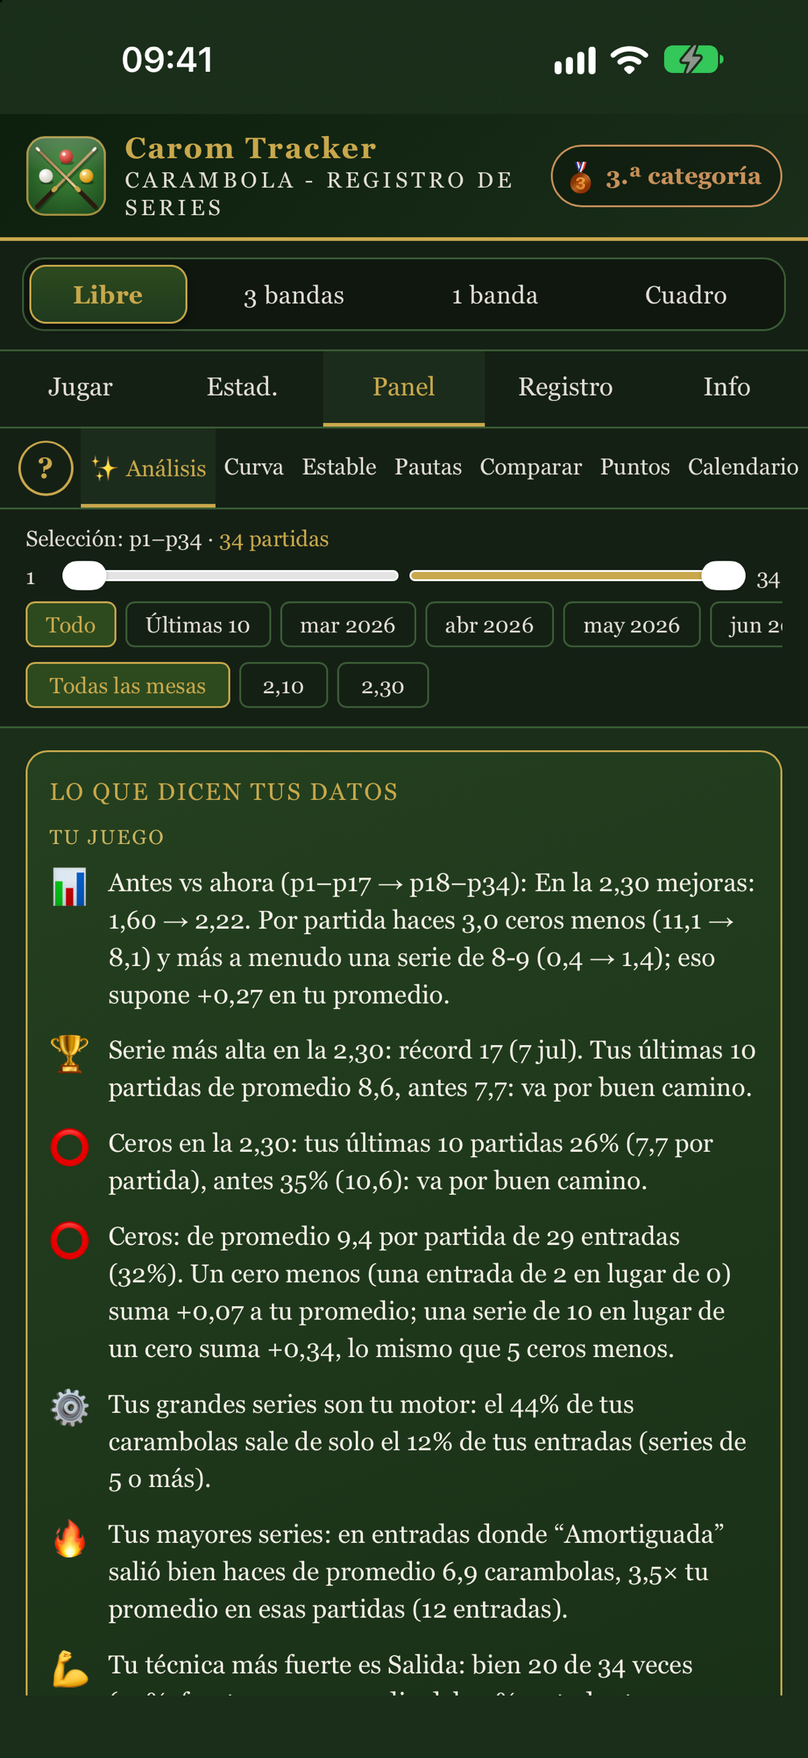
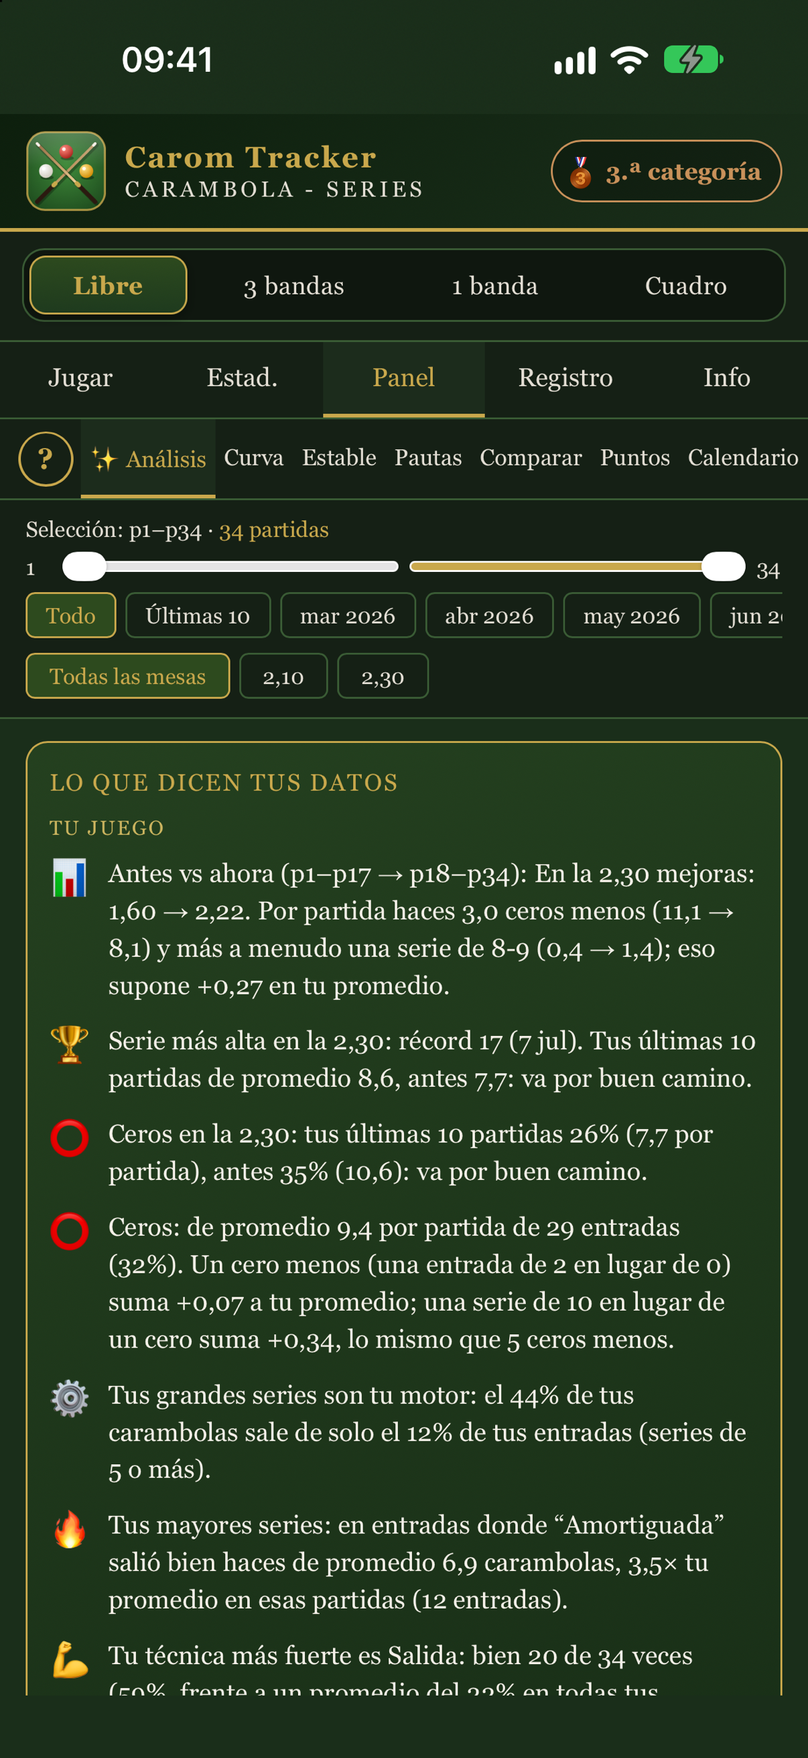
Schermafbeeldingen Japans, Vietnamees, Portugees; decimaalnotatie drempels per taal, Japanse dubbele punt, kortere ondertitel Spaans/Portugees

Changed region(s): [[0.0, 0.0618, 1.0, 0.9577]]

diff --git a/gebouwd/dashboard.js b/gebouwd/dashboard.js
@@ -620,7 +620,7 @@ function Dashboard({ partijen, niveau, tijdsvensterMaanden, discipline }) {
       onChange: (e) => setTrimH(+e.target.value),
       style: { width: "100%", accentColor: GRNT }
     }
-  ))), /* @__PURE__ */ React.createElement("div", { style: { textAlign: "center", background: "var(--c-1a3019)", borderRadius: 8, padding: "8px" } }, /* @__PURE__ */ React.createElement("span", { style: { fontSize: 13, color: WITD } }, t("Gefilterd gemiddelde:"), " "), /* @__PURE__ */ React.createElement("span", { style: { fontSize: 20, fontWeight: "bold", color: parseFloat(gemGem) >= grenzen.laag ? GOUD : WITD } }, gemGem))), sel.length > 0 && /* @__PURE__ */ React.createElement("div", { style: { background: KBG, border: `1px solid ${KBDR}`, borderRadius: 10, padding: "12px" } }, /* @__PURE__ */ React.createElement("div", { style: { display: "flex", justifyContent: "space-between", alignItems: "baseline", marginBottom: 8 } }, /* @__PURE__ */ React.createElement("span", { style: { fontSize: 13, color: GOUD, textTransform: "uppercase", letterSpacing: 1 } }, t("Alle beurten")), /* @__PURE__ */ React.createElement("span", { style: { fontSize: 12, color: WITD } }, t("{p} partijen · {b} beurten", { p: sel.length, b: sel.reduce((a, p) => a + p.n, 0) }))), /* @__PURE__ */ React.createElement(BeurtenTijdlijn, { partijen: sel, nummers: sel.map((p) => p.nr), discipline, niveau }))), tab === "consist" && /* @__PURE__ */ React.createElement("div", { style: { display: "flex", flexDirection: "column", gap: 10 } }, /* @__PURE__ */ React.createElement("div", { style: { background: KBG, border: `1px solid ${KBDR}`, borderRadius: 10, padding: "14px" } }, /* @__PURE__ */ React.createElement("div", { style: { fontSize: 13, color: GOUD, textTransform: "uppercase", letterSpacing: 1, marginBottom: 14 } }, t("% boven drempel")), [[drempD1, b15, "#5a8a50"], [drempD2, b20, GOUD], [drempD3, b25, "#e8a84c"], [drempD4, b30, ROOD]].map(([d, pct, k]) => /* @__PURE__ */ React.createElement("div", { key: d, style: { marginBottom: 14 } }, /* @__PURE__ */ React.createElement("div", { style: { display: "flex", justifyContent: "space-between", marginBottom: 4 } }, /* @__PURE__ */ React.createElement("span", { style: { fontSize: 14, color: WITD } }, t("Boven {g}", { g: gemDrempelTekst(d, stapC) })), /* @__PURE__ */ React.createElement("span", { style: { fontSize: 18, fontWeight: "bold", color: k } }, pct, "%")), /* @__PURE__ */ React.createElement(DashBalk, { pct, kleur: k }), /* @__PURE__ */ React.createElement("div", { style: { fontSize: 12, color: WITD, marginTop: 2 } }, t("{a} van {b} partijen", { a: filt.filter((p) => p.gem >= d).length, b: filt.length }))))), /* @__PURE__ */ React.createElement("div", { style: { display: "grid", gridTemplateColumns: "1fr 1fr", gap: 8 } }, /* @__PURE__ */ React.createElement("div", { style: { background: KBG, border: `1px solid ${KBDR}`, borderRadius: 10, padding: "12px" } }, /* @__PURE__ */ React.createElement("div", { style: { fontSize: 13, color: GRNT, textTransform: "uppercase", letterSpacing: 1, marginBottom: 8 } }, t("Beste 5")), [...filt].sort((a, b) => b.gem - a.gem).slice(0, 5).map((p) => /* @__PURE__ */ React.createElement("div", { key: p.id, style: { display: "flex", justifyContent: "space-between", padding: "3px 0", borderBottom: `1px solid ${KBDR}` } }, /* @__PURE__ */ React.createElement("span", { style: { fontSize: 13, color: WITD } }, "p", p.nr, " ", fmtDatum(p.datum)), /* @__PURE__ */ React.createElement("span", { style: { fontSize: 14, fontWeight: "bold", color: GRNT } }, p.gem)))), /* @__PURE__ */ React.createElement("div", { style: { background: KBG, border: `1px solid ${KBDR}`, borderRadius: 10, padding: "12px" } }, /* @__PURE__ */ React.createElement("div", { style: { fontSize: 13, color: ROOD, textTransform: "uppercase", letterSpacing: 1, marginBottom: 8 } }, t("Slechtste 5")), [...filt].sort((a, b) => a.gem - b.gem).slice(0, 5).map((p) => /* @__PURE__ */ React.createElement("div", { key: p.id, style: { display: "flex", justifyContent: "space-between", padding: "3px 0", borderBottom: `1px solid ${KBDR}` } }, /* @__PURE__ */ React.createElement("span", { style: { fontSize: 13, color: WITD } }, "p", p.nr, " ", fmtDatum(p.datum)), /* @__PURE__ */ React.createElement("span", { style: { fontSize: 14, fontWeight: "bold", color: ROOD } }, p.gem)))))), tab === "patronen" && /* @__PURE__ */ React.createElement("div", { style: { display: "flex", flexDirection: "column", gap: 10 } }, /* @__PURE__ */ React.createElement("div", { style: { background: KBG, border: `1px solid ${KBDR}`, borderRadius: 10, padding: "12px" } }, /* @__PURE__ */ React.createElement("div", { style: { fontSize: 13, color: GOUD, textTransform: "uppercase", letterSpacing: 1, marginBottom: 10 } }, t("Meest genoteerde redenen")), gemistCounts.length === 0 && goedCounts.length === 0 ? /* @__PURE__ */ React.createElement("div", { style: { fontSize: 14, color: WITD } }, t("Nog geen opmerkingen genoteerd in deze selectie.")) : /* @__PURE__ */ React.createElement("div", { style: { display: "grid", gridTemplateColumns: "1fr 1fr", gap: 12 } }, /* @__PURE__ */ React.createElement("div", null, /* @__PURE__ */ React.createElement("div", { style: { fontSize: 13, color: ROOD, marginBottom: 6 } }, t("Gemist door")), gemistCounts.length === 0 ? /* @__PURE__ */ React.createElement("div", { style: { fontSize: 13, color: WITD } }, "—") : gemistCounts.slice(0, 8).map(([label, n]) => /* @__PURE__ */ React.createElement("div", { key: label, style: { marginBottom: 6 } }, /* @__PURE__ */ React.createElement("div", { style: { display: "flex", justifyContent: "space-between", fontSize: 13, color: WITD, marginBottom: 2 } }, /* @__PURE__ */ React.createElement("span", null, t(label)), /* @__PURE__ */ React.createElement("span", null, n, "x")), /* @__PURE__ */ React.createElement(DashBalk, { pct: Math.round(n / gemistCounts[0][1] * 100), kleur: ROOD, hoogte: 5 })))), /* @__PURE__ */ React.createElement("div", null, /* @__PURE__ */ React.createElement("div", { style: { fontSize: 13, color: GRNT, marginBottom: 6 } }, t("Ging goed door")), goedCounts.length === 0 ? /* @__PURE__ */ React.createElement("div", { style: { fontSize: 13, color: WITD } }, "—") : goedCounts.slice(0, 8).map(([label, n]) => /* @__PURE__ */ React.createElement("div", { key: label, style: { marginBottom: 6 } }, /* @__PURE__ */ React.createElement("div", { style: { display: "flex", justifyContent: "space-between", fontSize: 13, color: WITD, marginBottom: 2 } }, /* @__PURE__ */ React.createElement("span", null, t(label)), /* @__PURE__ */ React.createElement("span", null, n, "x")), /* @__PURE__ */ React.createElement(DashBalk, { pct: Math.round(n / goedCounts[0][1] * 100), kleur: GRNT, hoogte: 5 })))))), /* @__PURE__ */ React.createElement("div", { style: { background: KBG, border: `1px solid ${KBDR}`, borderRadius: 10, padding: "12px" } }, /* @__PURE__ */ React.createElement("div", { style: { fontSize: 13, color: GOUD, textTransform: "uppercase", letterSpacing: 1, marginBottom: 10 } }, t("Verdeling caramboles per beurt")), histData.totBeurt === 0 ? /* @__PURE__ */ React.createElement("div", { style: { fontSize: 14, color: WITD } }, t("Geen beurten in selectie.")) : /* @__PURE__ */ React.createElement(React.Fragment, null, histData.counts.map(({ label, n }, idx) => {
+  ))), /* @__PURE__ */ React.createElement("div", { style: { textAlign: "center", background: "var(--c-1a3019)", borderRadius: 8, padding: "8px" } }, /* @__PURE__ */ React.createElement("span", { style: { fontSize: 13, color: WITD } }, t("Gefilterd gemiddelde:"), " "), /* @__PURE__ */ React.createElement("span", { style: { fontSize: 20, fontWeight: "bold", color: parseFloat(gemGem) >= grenzen.laag ? GOUD : WITD } }, gemGem))), sel.length > 0 && /* @__PURE__ */ React.createElement("div", { style: { background: KBG, border: `1px solid ${KBDR}`, borderRadius: 10, padding: "12px" } }, /* @__PURE__ */ React.createElement("div", { style: { display: "flex", justifyContent: "space-between", alignItems: "baseline", marginBottom: 8 } }, /* @__PURE__ */ React.createElement("span", { style: { fontSize: 13, color: GOUD, textTransform: "uppercase", letterSpacing: 1 } }, t("Alle beurten")), /* @__PURE__ */ React.createElement("span", { style: { fontSize: 12, color: WITD } }, t("{p} partijen · {b} beurten", { p: sel.length, b: sel.reduce((a, p) => a + p.n, 0) }))), /* @__PURE__ */ React.createElement(BeurtenTijdlijn, { partijen: sel, nummers: sel.map((p) => p.nr), discipline, niveau }))), tab === "consist" && /* @__PURE__ */ React.createElement("div", { style: { display: "flex", flexDirection: "column", gap: 10 } }, /* @__PURE__ */ React.createElement("div", { style: { background: KBG, border: `1px solid ${KBDR}`, borderRadius: 10, padding: "14px" } }, /* @__PURE__ */ React.createElement("div", { style: { fontSize: 13, color: GOUD, textTransform: "uppercase", letterSpacing: 1, marginBottom: 14 } }, t("% boven drempel")), [[drempD1, b15, "#5a8a50"], [drempD2, b20, GOUD], [drempD3, b25, "#e8a84c"], [drempD4, b30, ROOD]].map(([d, pct, k]) => /* @__PURE__ */ React.createElement("div", { key: d, style: { marginBottom: 14 } }, /* @__PURE__ */ React.createElement("div", { style: { display: "flex", justifyContent: "space-between", marginBottom: 4 } }, /* @__PURE__ */ React.createElement("span", { style: { fontSize: 14, color: WITD } }, t("Boven {g}", { g: kommaTekst(gemDrempelTekst(d, stapC)) })), /* @__PURE__ */ React.createElement("span", { style: { fontSize: 18, fontWeight: "bold", color: k } }, pct, "%")), /* @__PURE__ */ React.createElement(DashBalk, { pct, kleur: k }), /* @__PURE__ */ React.createElement("div", { style: { fontSize: 12, color: WITD, marginTop: 2 } }, t("{a} van {b} partijen", { a: filt.filter((p) => p.gem >= d).length, b: filt.length }))))), /* @__PURE__ */ React.createElement("div", { style: { display: "grid", gridTemplateColumns: "1fr 1fr", gap: 8 } }, /* @__PURE__ */ React.createElement("div", { style: { background: KBG, border: `1px solid ${KBDR}`, borderRadius: 10, padding: "12px" } }, /* @__PURE__ */ React.createElement("div", { style: { fontSize: 13, color: GRNT, textTransform: "uppercase", letterSpacing: 1, marginBottom: 8 } }, t("Beste 5")), [...filt].sort((a, b) => b.gem - a.gem).slice(0, 5).map((p) => /* @__PURE__ */ React.createElement("div", { key: p.id, style: { display: "flex", justifyContent: "space-between", padding: "3px 0", borderBottom: `1px solid ${KBDR}` } }, /* @__PURE__ */ React.createElement("span", { style: { fontSize: 13, color: WITD } }, "p", p.nr, " ", fmtDatum(p.datum)), /* @__PURE__ */ React.createElement("span", { style: { fontSize: 14, fontWeight: "bold", color: GRNT } }, p.gem)))), /* @__PURE__ */ React.createElement("div", { style: { background: KBG, border: `1px solid ${KBDR}`, borderRadius: 10, padding: "12px" } }, /* @__PURE__ */ React.createElement("div", { style: { fontSize: 13, color: ROOD, textTransform: "uppercase", letterSpacing: 1, marginBottom: 8 } }, t("Slechtste 5")), [...filt].sort((a, b) => a.gem - b.gem).slice(0, 5).map((p) => /* @__PURE__ */ React.createElement("div", { key: p.id, style: { display: "flex", justifyContent: "space-between", padding: "3px 0", borderBottom: `1px solid ${KBDR}` } }, /* @__PURE__ */ React.createElement("span", { style: { fontSize: 13, color: WITD } }, "p", p.nr, " ", fmtDatum(p.datum)), /* @__PURE__ */ React.createElement("span", { style: { fontSize: 14, fontWeight: "bold", color: ROOD } }, p.gem)))))), tab === "patronen" && /* @__PURE__ */ React.createElement("div", { style: { display: "flex", flexDirection: "column", gap: 10 } }, /* @__PURE__ */ React.createElement("div", { style: { background: KBG, border: `1px solid ${KBDR}`, borderRadius: 10, padding: "12px" } }, /* @__PURE__ */ React.createElement("div", { style: { fontSize: 13, color: GOUD, textTransform: "uppercase", letterSpacing: 1, marginBottom: 10 } }, t("Meest genoteerde redenen")), gemistCounts.length === 0 && goedCounts.length === 0 ? /* @__PURE__ */ React.createElement("div", { style: { fontSize: 14, color: WITD } }, t("Nog geen opmerkingen genoteerd in deze selectie.")) : /* @__PURE__ */ React.createElement("div", { style: { display: "grid", gridTemplateColumns: "1fr 1fr", gap: 12 } }, /* @__PURE__ */ React.createElement("div", null, /* @__PURE__ */ React.createElement("div", { style: { fontSize: 13, color: ROOD, marginBottom: 6 } }, t("Gemist door")), gemistCounts.length === 0 ? /* @__PURE__ */ React.createElement("div", { style: { fontSize: 13, color: WITD } }, "—") : gemistCounts.slice(0, 8).map(([label, n]) => /* @__PURE__ */ React.createElement("div", { key: label, style: { marginBottom: 6 } }, /* @__PURE__ */ React.createElement("div", { style: { display: "flex", justifyContent: "space-between", fontSize: 13, color: WITD, marginBottom: 2 } }, /* @__PURE__ */ React.createElement("span", null, t(label)), /* @__PURE__ */ React.createElement("span", null, n, "x")), /* @__PURE__ */ React.createElement(DashBalk, { pct: Math.round(n / gemistCounts[0][1] * 100), kleur: ROOD, hoogte: 5 })))), /* @__PURE__ */ React.createElement("div", null, /* @__PURE__ */ React.createElement("div", { style: { fontSize: 13, color: GRNT, marginBottom: 6 } }, t("Ging goed door")), goedCounts.length === 0 ? /* @__PURE__ */ React.createElement("div", { style: { fontSize: 13, color: WITD } }, "—") : goedCounts.slice(0, 8).map(([label, n]) => /* @__PURE__ */ React.createElement("div", { key: label, style: { marginBottom: 6 } }, /* @__PURE__ */ React.createElement("div", { style: { display: "flex", justifyContent: "space-between", fontSize: 13, color: WITD, marginBottom: 2 } }, /* @__PURE__ */ React.createElement("span", null, t(label)), /* @__PURE__ */ React.createElement("span", null, n, "x")), /* @__PURE__ */ React.createElement(DashBalk, { pct: Math.round(n / goedCounts[0][1] * 100), kleur: GRNT, hoogte: 5 })))))), /* @__PURE__ */ React.createElement("div", { style: { background: KBG, border: `1px solid ${KBDR}`, borderRadius: 10, padding: "12px" } }, /* @__PURE__ */ React.createElement("div", { style: { fontSize: 13, color: GOUD, textTransform: "uppercase", letterSpacing: 1, marginBottom: 10 } }, t("Verdeling caramboles per beurt")), histData.totBeurt === 0 ? /* @__PURE__ */ React.createElement("div", { style: { fontSize: 14, color: WITD } }, t("Geen beurten in selectie.")) : /* @__PURE__ */ React.createElement(React.Fragment, null, histData.counts.map(({ label, n }, idx) => {
     const pct = Math.round(n / histData.totBeurt * 100);
     const laatste = histData.counts.length - 1;
     const kleur = idx === 0 ? "#e08055" : idx === laatste ? "#ff9f40" : idx === laatste - 1 ? GOUDL : idx === laatste - 2 ? GRNT : GOUD;

diff --git a/index.html b/index.html
@@ -38,7 +38,7 @@ if(window.Capacitor&&window.Capacitor.isNativePlatform&&window.Capacitor.isNativ
 <!-- React 18.2.0 staat lokaal in vendor/ (identiek aan cdnjs), zodat de app zonder internet start -->
 <script src="vendor/react.production.min.js"></script>
 <script src="vendor/react-dom.production.min.js"></script>
-<link rel="stylesheet" href="css/app.css?v=2026-10-18.19">
+<link rel="stylesheet" href="css/app.css?v=2026-10-18.22">
 </head>
 <body>
 <div id="root"></div>
@@ -48,29 +48,29 @@ if(window.Capacitor&&window.Capacitor.isNativePlatform&&window.Capacitor.isNativ
   <p>Keep track of your carom billiards games: three-cushion, straight rail, one-cushion, balkline and four-ball, with averages, runs and levels.</p>
   <p>Deze app heeft JavaScript nodig. / This app needs JavaScript.</p>
 </noscript>
-<script src="js/constanten.js?v=2026-10-18.19"></script>
-<script src="js/taal.js?v=2026-10-18.19"></script>
-<script src="js/taal-en.js?v=2026-10-18.19"></script>
-<script src="js/taal-fr.js?v=2026-10-18.19"></script>
-<script src="js/taal-de.js?v=2026-10-18.19"></script>
-<script src="js/taal-es.js?v=2026-10-18.19"></script>
-<script src="js/taal-tr.js?v=2026-10-18.19"></script>
-<script src="js/taal-ko.js?v=2026-10-18.19"></script>
-<script src="js/taal-ja.js?v=2026-10-18.19"></script>
-<script src="js/taal-vi.js?v=2026-10-18.19"></script>
-<script src="js/taal-pt.js?v=2026-10-18.19"></script>
-<script src="js/berekeningen.js?v=2026-10-18.19"></script>
-<script src="js/opslag.js?v=2026-10-18.19"></script>
+<script src="js/constanten.js?v=2026-10-18.22"></script>
+<script src="js/taal.js?v=2026-10-18.22"></script>
+<script src="js/taal-en.js?v=2026-10-18.22"></script>
+<script src="js/taal-fr.js?v=2026-10-18.22"></script>
+<script src="js/taal-de.js?v=2026-10-18.22"></script>
+<script src="js/taal-es.js?v=2026-10-18.22"></script>
+<script src="js/taal-tr.js?v=2026-10-18.22"></script>
+<script src="js/taal-ko.js?v=2026-10-18.22"></script>
+<script src="js/taal-ja.js?v=2026-10-18.22"></script>
+<script src="js/taal-vi.js?v=2026-10-18.22"></script>
+<script src="js/taal-pt.js?v=2026-10-18.22"></script>
+<script src="js/berekeningen.js?v=2026-10-18.22"></script>
+<script src="js/opslag.js?v=2026-10-18.22"></script>
 <!-- Gebouwd uit jsx/*.jsx door bouw-jsx.js (npm run jsx); jsx/app.jsx bevat APP_VERSIE en BiljartTracker -->
-<script src="gebouwd/onderdelen.js?v=2026-10-18.19"></script>
-<script src="gebouwd/wauw.js?v=2026-10-18.19"></script>
-<script src="gebouwd/vensters.js?v=2026-10-18.19"></script>
-<script src="gebouwd/partijrij.js?v=2026-10-18.19"></script>
-<script src="gebouwd/inzicht.js?v=2026-10-18.19"></script>
-<script src="gebouwd/dashboard.js?v=2026-10-18.19"></script>
-<script src="gebouwd/tabs.js?v=2026-10-18.19"></script>
-<script src="gebouwd/spelen.js?v=2026-10-18.19"></script>
-<script src="gebouwd/app.js?v=2026-10-18.19"></script>
+<script src="gebouwd/onderdelen.js?v=2026-10-18.22"></script>
+<script src="gebouwd/wauw.js?v=2026-10-18.22"></script>
+<script src="gebouwd/vensters.js?v=2026-10-18.22"></script>
+<script src="gebouwd/partijrij.js?v=2026-10-18.22"></script>
+<script src="gebouwd/inzicht.js?v=2026-10-18.22"></script>
+<script src="gebouwd/dashboard.js?v=2026-10-18.22"></script>
+<script src="gebouwd/tabs.js?v=2026-10-18.22"></script>
+<script src="gebouwd/spelen.js?v=2026-10-18.22"></script>
+<script src="gebouwd/app.js?v=2026-10-18.22"></script>
 <script>
 if("serviceWorker" in navigator){
   window.addEventListener("load",function(){

diff --git a/js/taal.js b/js/taal.js
@@ -57,7 +57,7 @@ function kortNaam(disc){
 // Badge-labels blijven intern Nederlands (de code vergelijkt erop); zo worden ze getoond
 function badgeLabel(l){
   const m=/^Gemiddelde boven (.+)$/.exec(l||"");
-  return m?t("Gemiddelde boven {g}",{g:m[1]}):t(l);
+  return m?t("Gemiddelde boven {g}",{g:kommaTekst(m[1])}):t(l);
 }
 // Datumnotatie van de taal (voor toLocaleDateString)
 function taalLocale(){return{nl:"nl-NL",en:"en-GB",fr:"fr-FR",de:"de-DE",es:"es-ES",tr:"tr-TR",ko:"ko-KR",ja:"ja-JP",vi:"vi-VN",pt:"pt-BR"}[TAAL]||"nl-NL";}
@@ -82,12 +82,16 @@ function weekdagLetters(){
 // Getal met de decimaalkomma of -punt van de taal (Engels: punt)
 // Percentage (0,43 → "43%"); Turks zet het procentteken ervoor ("%43")
 function procentTekst(x){const n=Math.round(x*100);return TAAL==="tr"?"%"+n:n+"%";}
-// Dubbele punt tussen twee stukken tekst: Frans met spatie ervoor (" : ")
-function dubbelePunt(){return TAAL==="fr"?" : ":": ";}
+// Dubbele punt tussen twee stukken tekst: Frans met spatie ervoor (" : "), Japans de brede "："
+function dubbelePunt(){return TAAL==="fr"?" : ":TAAL==="ja"?"：":": ";}
 function getalTekst(x,dec){
   const s=Number(x).toFixed(dec);
-  return TAAL==="en"||TAAL==="ko"||TAAL==="ja"?s:s.replace(".",","); // Engels, Koreaans en Japans: decimale punt
+  return decimaalPunt()?s:s.replace(".",",");
 }
+// Engels, Koreaans en Japans schrijven een decimale punt, de andere talen een komma
+function decimaalPunt(){return TAAL==="en"||TAAL==="ko"||TAAL==="ja";}
+// Tekst die al een decimaalkomma heeft (gemDrempelTekst, opgeslagen badgelabels) in de notatie van de taal
+function kommaTekst(s){return decimaalPunt()?String(s).replace(",","."):String(s);}
 
 // Namen van disciplines, klassen, tafels en mijlpalen worden overal getoond via .naam; die geeft voortaan de
 // vertaalde naam (de Nederlandse blijft als _naam bewaard). Zo hoeft niet elke plek t() te gebruiken.

diff --git a/jsx/dashboard.jsx b/jsx/dashboard.jsx
@@ -626,7 +626,7 @@ function Dashboard({partijen,niveau,tijdsvensterMaanden,discipline}){
             {[[drempD1,b15,"#5a8a50"],[drempD2,b20,GOUD],[drempD3,b25,"#e8a84c"],[drempD4,b30,ROOD]].map(([d,pct,k])=>(
               <div key={d} style={{marginBottom:14}}>
                 <div style={{display:"flex",justifyContent:"space-between",marginBottom:4}}>
-                  <span style={{fontSize:14,color:WITD}}>{t("Boven {g}",{g:gemDrempelTekst(d,stapC)})}</span>
+                  <span style={{fontSize:14,color:WITD}}>{t("Boven {g}",{g:kommaTekst(gemDrempelTekst(d,stapC))})}</span>
                   <span style={{fontSize:18,fontWeight:"bold",color:k}}>{pct}%</span>
                 </div>
                 <DashBalk pct={pct} kleur={k}/>

diff --git a/gebouwd/spelen.js b/gebouwd/spelen.js
@@ -303,7 +303,7 @@ function InvoerScherm({ spel }) {
       if (gemNu < drempel2Nu) {
         const drempel = gemNu < drempel1Nu ? drempel1Nu : drempel2Nu;
         const afstand = drempel - gemNu;
-        if (afstand < stapNu) hints.push(spelAan && "⭐ " + t("Nog {a} tot gemiddelde {g}", { a: afstand.toFixed(2), g: gemDrempelTekst(drempel, stapNu) }));
+        if (afstand < stapNu) hints.push(spelAan && "⭐ " + t("Nog {a} tot gemiddelde {g}", { a: afstand.toFixed(2), g: kommaTekst(gemDrempelTekst(drempel, stapNu)) }));
       }
       if (huidigeRecords.allTimeBestGem > 0) {
         const afstandRecord = huidigeRecords.allTimeBestGem - gemNu;

diff --git a/jsx/spelen.jsx b/jsx/spelen.jsx
@@ -253,7 +253,7 @@ function InvoerScherm({spel}){
             if(gemNu<drempel2Nu){
               const drempel=gemNu<drempel1Nu?drempel1Nu:drempel2Nu;
               const afstand=drempel-gemNu;
-              if(afstand<stapNu)hints.push(spelAan&&"⭐ "+t("Nog {a} tot gemiddelde {g}",{a:afstand.toFixed(2),g:gemDrempelTekst(drempel,stapNu)}));
+              if(afstand<stapNu)hints.push(spelAan&&"⭐ "+t("Nog {a} tot gemiddelde {g}",{a:afstand.toFixed(2),g:kommaTekst(gemDrempelTekst(drempel,stapNu))}));
             }
             if(huidigeRecords.allTimeBestGem>0){
               const afstandRecord=huidigeRecords.allTimeBestGem-gemNu;

diff --git a/jsx/vensters.jsx b/jsx/vensters.jsx
@@ -393,7 +393,7 @@ function BriefjeImport({discipline,tafelStandaard,onOpslaan,onClose}){
   const totaal=beurten.reduce(function(s,b){return s+b.car;},0);
   const hoogste=beurten.reduce(function(m,b){return Math.max(m,b.car);},0);
   const dec=discipline==="driebanden"?3:2;
-  const gem=beurten.length?(totaal/beurten.length).toFixed(dec).replace(".",","):"–";
+  const gem=beurten.length?getalTekst(totaal/beurten.length,dec):"–";
   const doelGetal=parseInt(doel,10); // te maken caramboles van het briefje (niet zichtbaar; wordt als doel bewaard)
 
   function opslaan(){

diff --git a/js/taal-pt.js b/js/taal-pt.js
@@ -2,7 +2,7 @@
 // Termen (Braziliaans, je = você): beurt = entrada, serie = série, poedel = zero, caramboles = pontos, gemiddelde = média, moyenne = média geral, vorm = forma, vierbal = quatro bolas; Livre, Três tabelas, Uma tabela, Quadro.
 VERTALING.pt={
   // Kop, tabbladen, algemeen
-  "Carambole - Serie registratie":"Carambola - Registro de séries",
+  "Carambole - Serie registratie":"Carambola - Séries",
   "Afsluiten":"Encerrar",
   "Kader":"Quadro",
   "Spelen":"Jogar",

diff --git a/gebouwd/vensters.js b/gebouwd/vensters.js
@@ -346,7 +346,7 @@ function BriefjeImport({ discipline, tafelStandaard, onOpslaan, onClose }) {
     return Math.max(m, b.car);
   }, 0);
   const dec = discipline === "driebanden" ? 3 : 2;
-  const gem = beurten.length ? (totaal / beurten.length).toFixed(dec).replace(".", ",") : "–";
+  const gem = beurten.length ? getalTekst(totaal / beurten.length, dec) : "–";
   const doelGetal = parseInt(doel, 10);
   function opslaan() {
     const d = datum.split("-").map(function(x) {

diff --git a/js/taal-es.js b/js/taal-es.js
@@ -2,7 +2,7 @@
 // Términos: beurt = entrada, serie = serie, poedel = cero, moyenne = promedio general, vorm = forma, caramboles = carambolas.
 VERTALING.es={
   // Kop, tabbladen, algemeen
-  "Carambole - Serie registratie":"Carambola - Registro de series",
+  "Carambole - Serie registratie":"Carambola - Series",
   "Afsluiten":"Terminar",
   "Kader":"Cuadro",
   "Spelen":"Jugar",

diff --git a/gebouwd/app.js b/gebouwd/app.js
@@ -1,5 +1,5 @@
 // Gebouwd uit jsx/app.jsx door bouw-jsx.js; niet zelf aanpassen.
-const APP_VERSIE = "2026-10-18.19";
+const APP_VERSIE = "2026-10-18.22";
 function BiljartTracker() {
   const [data, setData] = useState(null);
   const [tab, setTab] = useState("spelen");

diff --git a/js/taal-ja.js b/js/taal-ja.js
@@ -68,7 +68,7 @@ VERTALING.ja={
   // Spelen: tijdens de partij
   "Deze partij:":"このゲーム：",
   "Totaal:":"合計：",
-  "Gespeeld":"ゲーム数",
+  "Gespeeld":"イニング数",
   "Gem.":"平均",
   "Max":"最高",
   "Opbouw {n}+":"{n}点以上",
